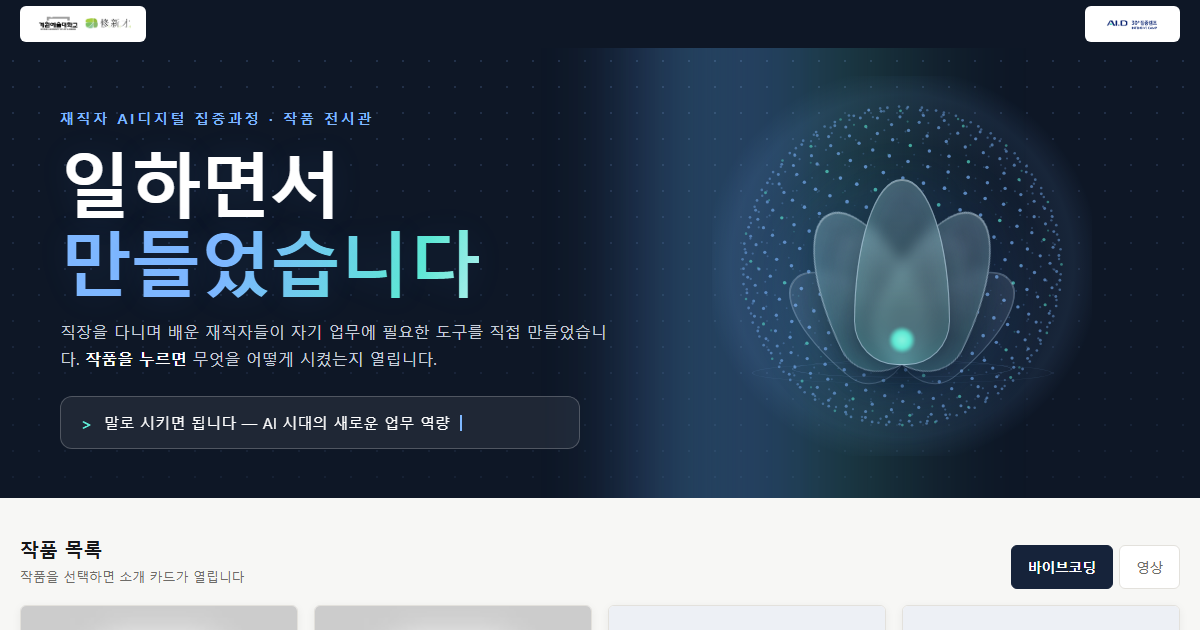
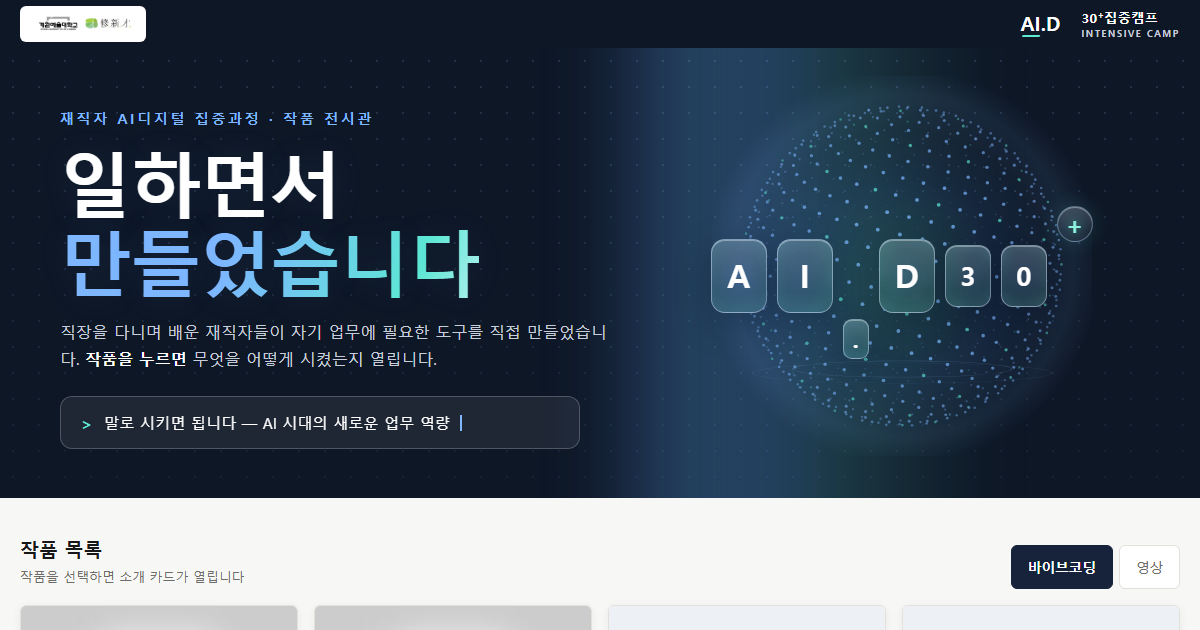
feat: 히어로 연꽃 → AI.D 30+ 글래스 블룸
- 글래스모피즘 연꽃(petal·core)을 글자 타일 7개(A·I·.·D·3·0·+)로 교체
- 각 글자가 흩어진 위치에서 피어오른 뒤 가운데로 모여 만나는 7초 루프
- + 는 민트 발광(기존 연꽃 심 계승), 닷 스피어·물결 파문·후광 유지
- 감속 설정 시 조립 완료 상태로 고정, og.png 재캡처

Changed region(s): [[0.5858, 0.2714, 0.925, 0.6032], [0.8325, 0.0, 0.9867, 0.0905]]

diff --git a/index.html b/index.html
@@ -202,63 +202,50 @@ button{font-family:inherit;cursor:pointer}
   transform:translate(-50%,-50%);
   pointer-events:none;opacity:.9;
 }
-.lotus{
-  position:relative;z-index:1;width:330px;height:255px;
+/* AI.D 30+ 글래스 블룸 — 글자가 각자 피어올랐다가 하나로 만납니다 */
+.aid-bloom{
+  position:relative;z-index:1;
+  display:flex;align-items:center;gap:10px;
+  height:255px;padding-bottom:26px;
   animation:floatY 8s ease-in-out 2s infinite;
 }
-.lotus::before{ /* 후광 */
-  content:"";position:absolute;left:50%;top:52%;width:300px;height:300px;
+.aid-bloom::before{ /* 후광 */
+  content:"";position:absolute;left:50%;top:46%;width:300px;height:300px;
   transform:translate(-50%,-50%);
   background:radial-gradient(circle,var(--halo-a) 0%,var(--halo-b) 45%,transparent 70%);
   filter:blur(6px);
 }
-.petal{
-  position:absolute;left:50%;bottom:52px;
-  transform-origin:50% 100%;
-  border:1px solid var(--petal-line);
-  background:linear-gradient(180deg,var(--petal-fill) 0%,rgba(255,255,255,.03) 70%);
-  box-shadow:inset 0 1px 0 rgba(255,255,255,.28), inset 0 -8px 22px var(--petal-glow);
-  border-radius:50% 50% 46% 46% / 78% 78% 24% 24%;
-  /* 반복 개화(5초 주기): 피어남 → 만개 유지 → 오므림 → 다시 개화 */
-  --r:0deg; --d:.8s; --po:1;
-  opacity:0;
-  animation:bloomLoop 5s ease-in-out infinite;
-  animation-delay:var(--d);
-}
-@keyframes bloomLoop{
-  0%{transform:rotate(calc(var(--r) * .12)) scale(.5,.3);opacity:0}
-  12%{opacity:var(--po)}
-  20%,80%{transform:rotate(var(--r)) scale(1,1);opacity:var(--po)}
-  93%,100%{transform:rotate(calc(var(--r) * .12)) scale(.5,.3);opacity:0}
-}
-.pb{width:84px;height:138px;margin-left:-42px;--po:.75}
-.p1{--r:-52deg;--d:.75s} .p2{--r:-19deg;--d:.95s}
-.p3{--r:19deg;--d:.95s}  .p4{--r:52deg;--d:.75s}
-.pf{
-  width:96px;height:186px;margin-left:-48px;
+.glyph{
+  display:inline-flex;align-items:center;justify-content:center;
+  width:56px;height:74px;border-radius:14px;
+  border:1px solid var(--petal-front-line);
   background:linear-gradient(180deg,var(--petal-front-fill) 0%,rgba(255,255,255,.05) 72%);
-  border-color:var(--petal-front-line);
   backdrop-filter:blur(7px);-webkit-backdrop-filter:blur(7px);
   box-shadow:inset 0 1px 0 rgba(255,255,255,.35), inset 0 -10px 26px var(--halo-a),
              0 10px 34px rgba(8,18,40,.35);
+  font-family:var(--font-display);font-weight:900;font-size:2rem;
+  color:var(--on-brand);text-shadow:0 0 18px var(--beam-a);
+  /* 개화 루프(7초): --dx 만큼 흩어진 채 피어오름 → 가운데로 모여 만남 → 유지 → 소멸 */
+  --dx:0px; --d:0s; --rot:0deg;
+  opacity:0;
+  animation:glyphLoop 7s ease-in-out infinite;
+  animation-delay:var(--d);
 }
-.p5{--r:-26deg;--d:1.15s;height:168px}
-.p6{--r:0deg;--d:1.35s}
-.p7{--r:26deg;--d:1.15s;height:168px}
-.core{
-  position:absolute;left:50%;bottom:64px;width:26px;height:26px;
-  margin-left:-13px;border-radius:50%;
-  background:radial-gradient(circle,var(--hero-accent-2-hi) 0%,var(--hero-accent-2) 45%,transparent 75%);
-  filter:blur(1px);opacity:0;
-  animation:coreLoop 5s ease-in-out infinite;
-  animation-delay:1.35s;
+.glyph.dot{width:26px;height:40px;font-size:1.4rem;border-radius:9px;align-self:flex-end;margin-bottom:32px}
+.glyph.num{width:46px;height:62px;font-size:1.6rem;border-radius:12px}
+.glyph.plus{
+  width:36px;height:36px;font-size:1.5rem;border-radius:50%;
+  align-self:flex-start;margin-top:44px;
+  color:var(--hero-accent-2-hi);
+  border-color:var(--petal-line);
+  box-shadow:inset 0 1px 0 rgba(255,255,255,.35), 0 0 22px var(--halo-a);
+  text-shadow:0 0 14px var(--hero-accent-2);
 }
-@keyframes coreLoop{
-  0%,17%{opacity:0;transform:scale(.2)}
-  26%{opacity:.75;transform:scale(1)}
-  50%{opacity:1;transform:scale(1.16)}
-  78%{opacity:.75;transform:scale(1)}
-  91%,100%{opacity:0;transform:scale(.2)}
+@keyframes glyphLoop{
+  0%{opacity:0;transform:translate(calc(var(--dx) * 1.8), 52px) rotate(var(--rot)) scale(.6)}
+  13%{opacity:1;transform:translate(var(--dx), 6px) rotate(calc(var(--rot) * .3)) scale(1)}
+  32%,80%{opacity:1;transform:translate(0, 0) rotate(0deg) scale(1)}
+  94%,100%{opacity:0;transform:translate(calc(var(--dx) * 1.2), 44px) rotate(var(--rot)) scale(.7)}
 }
 .ripple{
   position:absolute;left:50%;border:1px solid var(--ripple-line);
@@ -275,7 +262,7 @@ button{font-family:inherit;cursor:pointer}
   .hero-sub{margin:0 auto}
   .prompt-line{margin:24px auto 0}
   .hero-visual{margin-top:22px;min-height:0}
-  .lotus{transform:scale(.72);transform-origin:bottom center;margin-bottom:-30px;animation:none}
+  .aid-bloom{transform:scale(.72);transform-origin:bottom center;margin-bottom:-30px;animation:none}
   .globe{width:340px;height:340px}
 }
 
@@ -285,9 +272,8 @@ button{font-family:inherit;cursor:pointer}
   .caret{animation:none}
   .beam{animation:none}
   .prompt-line{animation:none;opacity:1}
-  .lotus{animation:none}
-  .petal{animation:none;opacity:var(--po);transform:rotate(var(--r))}
-  .core{animation:none;opacity:1;transform:scale(1)}
+  .aid-bloom{animation:none}
+  .glyph{animation:none;opacity:1;transform:none}
   .ripple{animation:none;opacity:var(--o)}
 }
 
@@ -457,11 +443,15 @@ footer .org{color:var(--on-brand);font-weight:700;font-size:.9rem}
     </div>
     <div class="hero-visual fx" aria-hidden="true">
       <canvas class="globe" id="globe"></canvas>
-      <div class="lotus">
+      <div class="aid-bloom">
         <span class="ripple r2"></span><span class="ripple r1"></span>
-        <i class="petal pb p1"></i><i class="petal pb p2"></i><i class="petal pb p3"></i><i class="petal pb p4"></i>
-        <i class="petal pf p5"></i><i class="petal pf p7"></i><i class="petal pf p6"></i>
-        <b class="core"></b>
+        <span class="glyph"      style="--dx:-76px;--d:.15s;--rot:-10deg">A</span>
+        <span class="glyph"      style="--dx:-48px;--d:.3s;--rot:-6deg">I</span>
+        <span class="glyph dot"  style="--dx:-26px;--d:.45s;--rot:-3deg">.</span>
+        <span class="glyph"      style="--dx:-4px;--d:.6s;--rot:3deg">D</span>
+        <span class="glyph num"  style="--dx:36px;--d:.75s;--rot:6deg">3</span>
+        <span class="glyph num"  style="--dx:60px;--d:.9s;--rot:9deg">0</span>
+        <span class="glyph plus" style="--dx:86px;--d:1.05s;--rot:12deg">+</span>
       </div>
     </div>
   </div>
